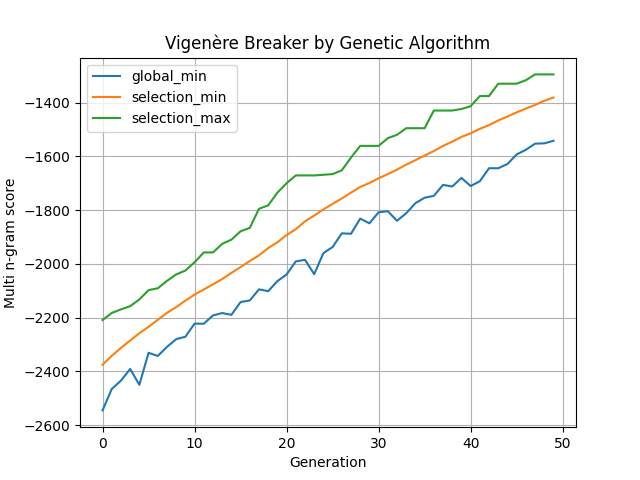
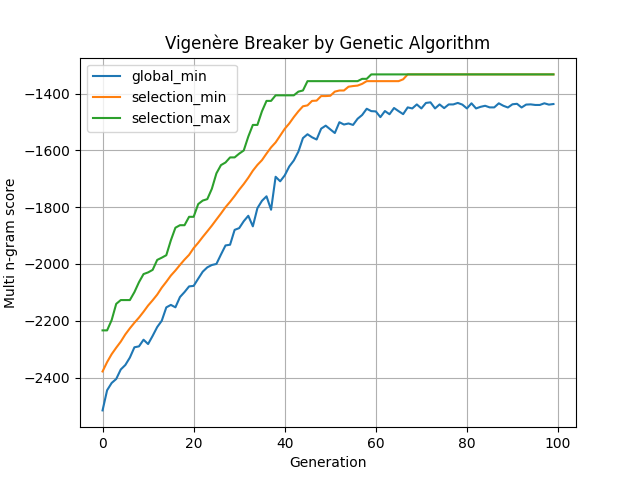
GA Breakers is kind of well working

diff --git a/pysgrs/breakers/ga.py b/pysgrs/breakers/ga.py
@@ -116,7 +116,7 @@ def main():
     target_score = scores.MixedNGramScore().score(text)
     print(target_score)
 
-    key = "FLUCTUATNECMERGITURTESTFORALL"
+    key = "GENETICALGORITHMCANSOLVENICEPROBLEMS"
     cipher = VigenereCipher(key=key)
     cipher_text = cipher.encipher(text)
     print(cipher_text)
@@ -125,7 +125,7 @@ def main():
     print(initial_score)
 
     breaker = GeneticAlgorithmBreaker(VigenereCipher, scores.MixedNGramScore(), key_size=len(key))
-    generations = list(breaker.attack(cipher_text, population_size=300, generation_count=50, mutation_threshold=0.65))
+    generations = list(breaker.attack(cipher_text, population_size=300, generation_count=100, mutation_threshold=0.65))
 
     new_cipher = VigenereCipher(key=generations[-1]["winner"])
     decipher_text = new_cipher.decipher(cipher_text)
